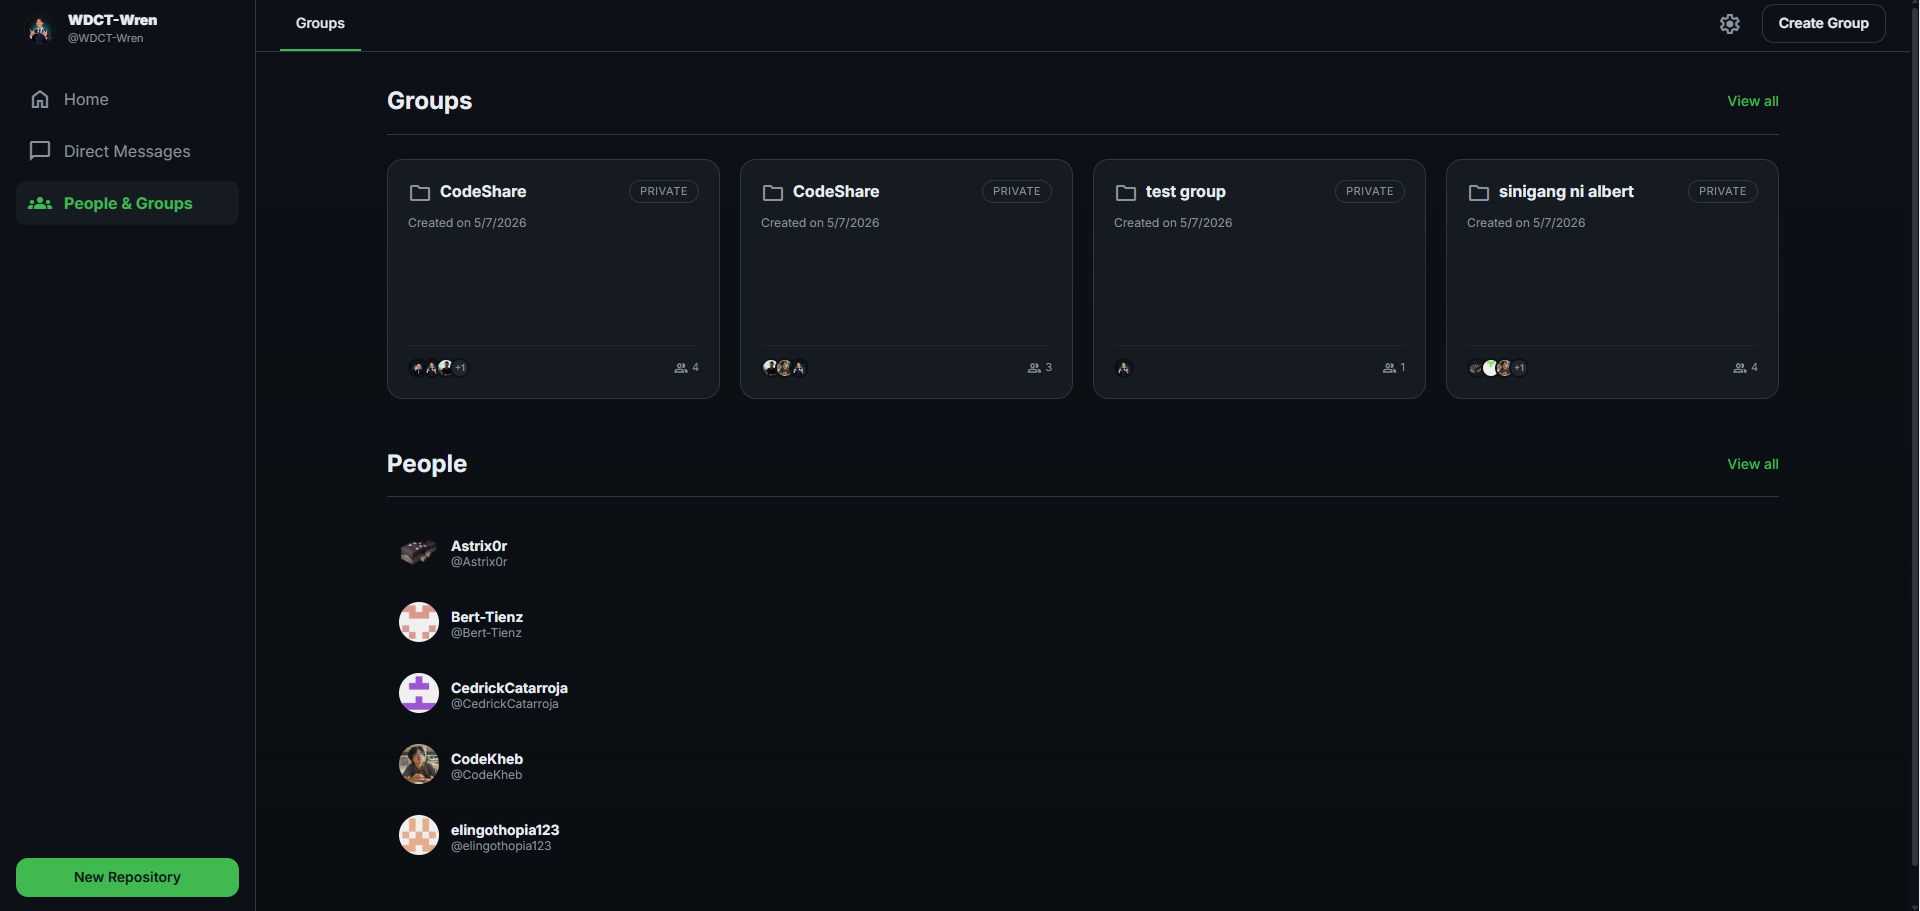
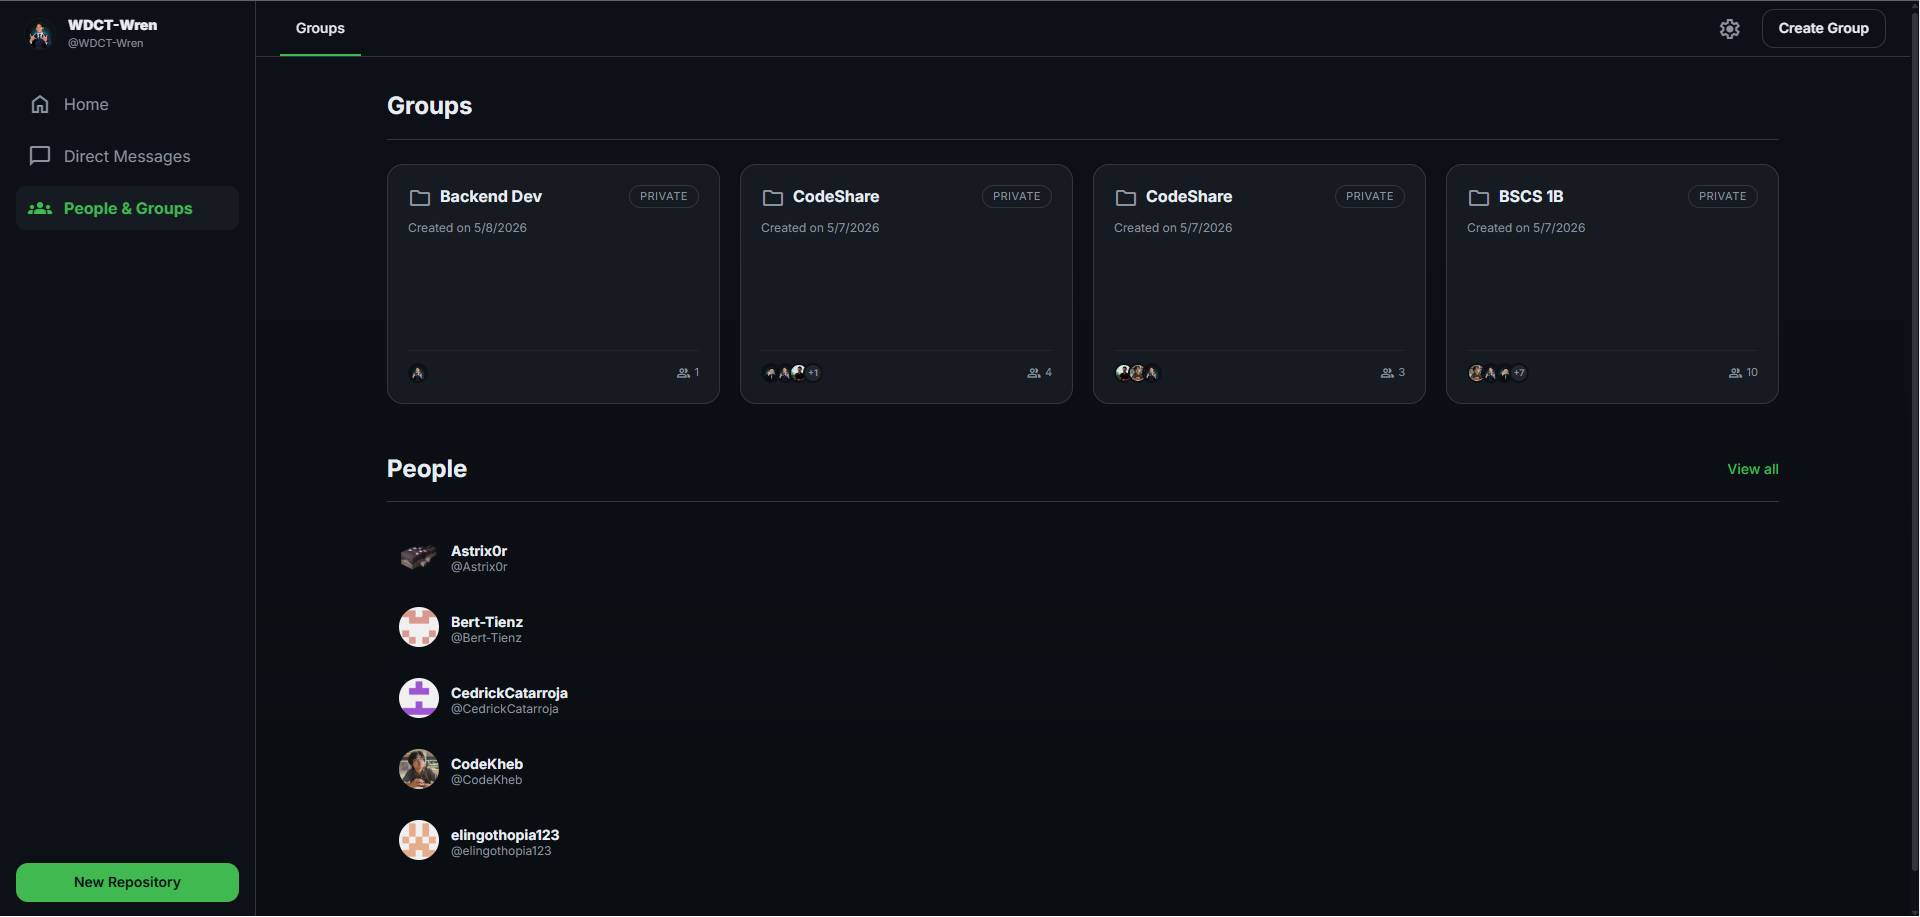
Changed screenshots

diff --git a/README.md b/README.md
@@ -78,7 +78,7 @@ Central overview of all your groups and cross-repo GitHub activity in one unifie
 ![Dashboard Overview](screenshots/Dashboard.png)
 *Your repositories and GitHub activity across all connected repos in one unified feed*
 
-![Group Chat with GitHub Integration](screenshots/GroupMesages.png)
+![Group Chat with GitHub Integration](screenshots/GroupMessages.png)
 *Real-time team messages with GitHub push and commit events appearing as system messages—no context switching*
 
 ![Attach Repository to Group](screenshots/AttachRepo.png)
